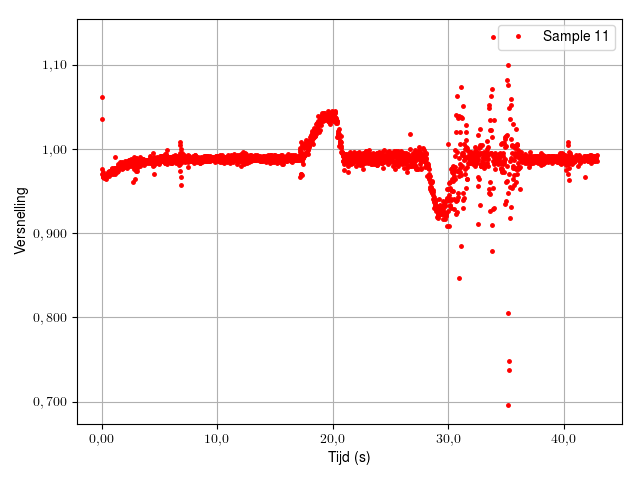
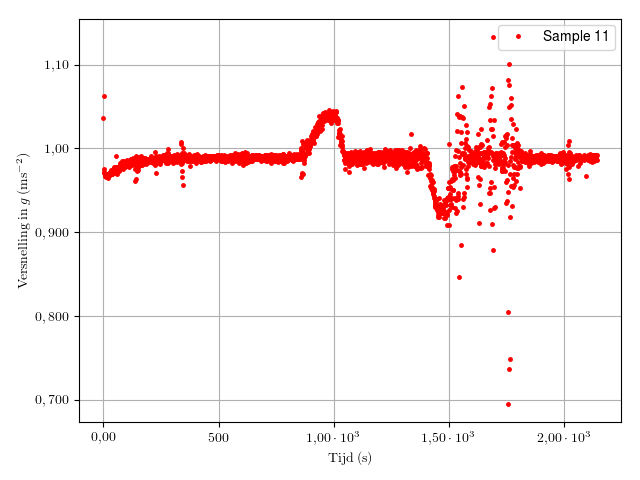
minor changes

diff --git a/Data_analytics.py b/Data_analytics.py
@@ -60,8 +60,7 @@ def create_df(directory, file_name, i, file_format):
     if os.path.isfile(path):
         df = pd.read_csv(path, sep=',', header=None, names=['x', 'y', 'z'], decimal=".")
         # ---- START OF DATAFRAME MANIPULATIONS ----
-        #df['time'] = add_index_to_time(50)  # Adds ['time'] column to df
-        df['time'] = add_index_to_time(1) # Adds index as x variables
+        df['time'] = add_index_to_time(50)  # Adds ['time'] column to df
     else:
         print(path+' does not excist')
 
@@ -97,8 +96,11 @@ x_label = 'Tijd (s)'
 # df = df[~(df == 0).any(axis=1)] # Verpest de fit
 # print(df['time'])
 
-sample = df['time']  # The sample to do statistical analysis on
-mu = 6  # literature value to compare the sample to
+min_index_val = 12*10**3
+max_index_val = 14*10**3
+sample = df['z'].iloc[min_index_val:max_index_val]  # The sample to do statistical analysis on
+
+mu = -1  # literature value to compare the sample to
 x_significant_digits = 3  # Number of significant digits used in plots
 y_significant_digits = 3  # Number of significant digits used in plots
 
@@ -118,7 +120,7 @@ rc('font',**{'family':'sans-serif','sans-serif':['Helvetica']})
 rc('text', usetex=True)
 
 
-def histogram(data, num_bins, enable_gauss_fit, enable_axis_lim, x_lim, y_lim): # even check of sigma wel s is
+def histogram(data, num_bins, enable_gauss_fit, enable_axis_lim, x_lim, y_lim, sample_name, x_label, y_label): # even check of sigma wel s is
     """
     Plots a histogram with number_of_bins of given data.
     :param data:
@@ -137,7 +139,7 @@ def histogram(data, num_bins, enable_gauss_fit, enable_axis_lim, x_lim, y_lim): 
     x = sample
 
     # Histogram of the data
-    n, bins, patches = plt.hist(x, num_bins, normed=1, facecolor='pink', alpha=0.5, ec='black', label='Sample')
+    n, bins, patches = plt.hist(x, num_bins, normed=1, facecolor='pink', alpha=0.5, ec='black', label=sample_name)
 
     # Creates a best gauss fit line
     if enable_gauss_fit:
@@ -206,7 +208,7 @@ def create_plot(x, x_error, y1, y1_error):
     create_layout()
 
 
-def create_plot_without_error(x, y, label):
+def create_plot_without_error(x, y, sample_number, x_label, y_label):
     """
     Creates a plot of the data.
     Data must be in df['...'] format.
@@ -214,7 +216,7 @@ def create_plot_without_error(x, y, label):
     :param y:
     :return:
     """
-    plt.plot(x, y, '.', color="#ff0000", ms=5, label=r''+str(label)+'')
+    plt.plot(x, y, '.', color="#ff0000", ms=5, label='Sample '+str(sample_number))
     #plt.plot(x, 0 * x + mu, '-', color="#ff0000", ms=5) # Creates a line at (literature) y value
     plt.xlabel(x_label)
     plt.ylabel(y_label)
@@ -304,7 +306,7 @@ def df_to_csv(file_name):
     df.to_csv(file_name, sep='\t')
 
 
-def save_multiple_plots(directory, start, stop):
+def save_multiple_plots(directory, file_name, file_format, start, stop):
     """
     Saves plots from multiple samples.
     Note that the function to use with its variables is set inside this function.
@@ -319,10 +321,14 @@ def save_multiple_plots(directory, start, stop):
     global df
 
     for i in range(start, stop):
-        create_df('Data\\Accelerometer (ACC)\\', 'acc_', i, '.csv')
-        create_plot_without_error(df['time'], df['z'], 'Sample '+str(i))  # Plot to create
-        plt.savefig(str(directory)+'Plots\\'+'acc_'+str(i)+'.png')
-        plt.clf()
+        path = str(directory) + str(file_name) + str(i) + str(file_format)
+        if os.path.isfile(path):
+            create_df(directory, file_name, i, file_format)
+            create_plot_without_error(df['time'],
+                                      df['z'], i, r'$\mathrm{Tijd \: (s)}$',
+                                      r'$ \mathrm{Versnelling \: in \:} g \mathrm{\: (ms^{-2}) }$')
+            plt.savefig(str(directory)+'Plots\\'+'acc_'+str(i)+'.png')
+            plt.clf()
 
 
 
@@ -346,7 +352,7 @@ def acc_line_fit_plot(x, y, sample_number, x_label, y_label): # WIP
     xdata = x
     ydata = y
     plt.rc('text', usetex=True)
-    plt.plot(xdata, ydata, '.', label='Sample '+str(sample_number))
+    plt.plot(xdata, ydata, '.', color="#ff0000", label='Sample '+str(sample_number))
     min_line_1 =4*10**3
     max_line_1 =8*10**3
     min_line_2 =12*10**3
@@ -354,13 +360,13 @@ def acc_line_fit_plot(x, y, sample_number, x_label, y_label): # WIP
     popt1, pcov1 = sp.optimize.curve_fit(line_fit,
                                        xdata.iloc[min_line_1:max_line_1], ydata.iloc[min_line_1:max_line_1],
                                        bounds=([-10., -10.], [10., 10.]))
-    plt.plot(xdata, line_fit(xdata, *popt1), 'r-',
-             label=r"$ a+bx, a=%5.3f, b=%5.3f $" % tuple(popt1))
+    plt.plot(xdata, line_fit(xdata, *popt1), 'r-', color="#0000ff",
+             label=r"$+1g: \: a+bx, \: a=%5.3f, b=%5.3f $" % tuple(popt1))
     popt2, pcov2 = sp.optimize.curve_fit(line_fit,
                                          xdata.iloc[min_line_2:max_line_2], ydata.iloc[min_line_2:max_line_2],
                                        bounds=([-2., -2.], [2., 2.]))
-    plt.plot(xdata, line_fit(xdata, *popt2), 'r-',
-             label=r"$ a+bx, a=%5.3f, b=%5.3f $" % tuple(popt2))
+    plt.plot(xdata, line_fit(xdata, *popt2), 'r-', color="#0000ff",
+             label=r"$-1g: \: a+bx, \: a=%5.3f, b=%5.3f $" % tuple(popt2))
     plt.xlabel(x_label)
     plt.ylabel(y_label)
     plt.legend()
@@ -368,7 +374,12 @@ def acc_line_fit_plot(x, y, sample_number, x_label, y_label): # WIP
 
 #print(stats.norm.ppf(1.96))
 #print(stats.norm.ppf(1.96))
-#histogram(sample, 25, False, False, [0, 1], [0,25]) # data, number of bars, Enable gauss fit, Enable_axis_lim, x_lim, y_lim
+
+#histogram(sample, 20, True, True, [-1.02, -1.0055], [0, 250],
+#          r'$ \mathrm{Sample: \: Calibration \: -1} g $',
+#          r'$ \mathrm{Versnelling \: in \:} g \: (ms^{-2}) $',
+#          r'$ \mathrm{Hoeveelheid \: (-)} $') # data, number of bars, Enable gauss fit, Enable_axis_lim, x_lim, y_lim
+
 #create_plot(df['U'], df['delta U'], df['mgd'], df['delta mgd'])
 #create_plot_without_error(df['time'], df['z'], sample_number)
 #linear_regression_plot(df['U'], df['delta U'], df['mgd'], df['delta mgd'])
@@ -376,11 +387,13 @@ def acc_line_fit_plot(x, y, sample_number, x_label, y_label): # WIP
 #line_fit_plot(df['time'], df['z'])
 #df_to_csv('raw.scv') #saves df to scv file 'file name'
 #logarithmic_fit_plot(df['time'], df['counts'])
-acc_line_fit_plot(df['time'], df['z'], sample_number, r'$\textit{Tijd } (s)$', r'$ \textit{Versnelling } (ms^-2)}$') # text nog rehtop maken
+
+acc_line_fit_plot(df['time'], df['z'], sample_number, r'$\mathrm{Tijd \:} (s)$',
+                  r'$ \mathrm{Versnelling \: in \:} g \: (ms^-2)}$')
 
 plt.show()
 
-#save_multiple_plots('Data\\Accelerometer (ACC)\\', 1, 21)
+#save_multiple_plots('Data\\Accelerometer (ACC)\\', 'acc_', '.csv', 1, 21)
 """
 TODO:
 Add a chee for the linear regression plot
